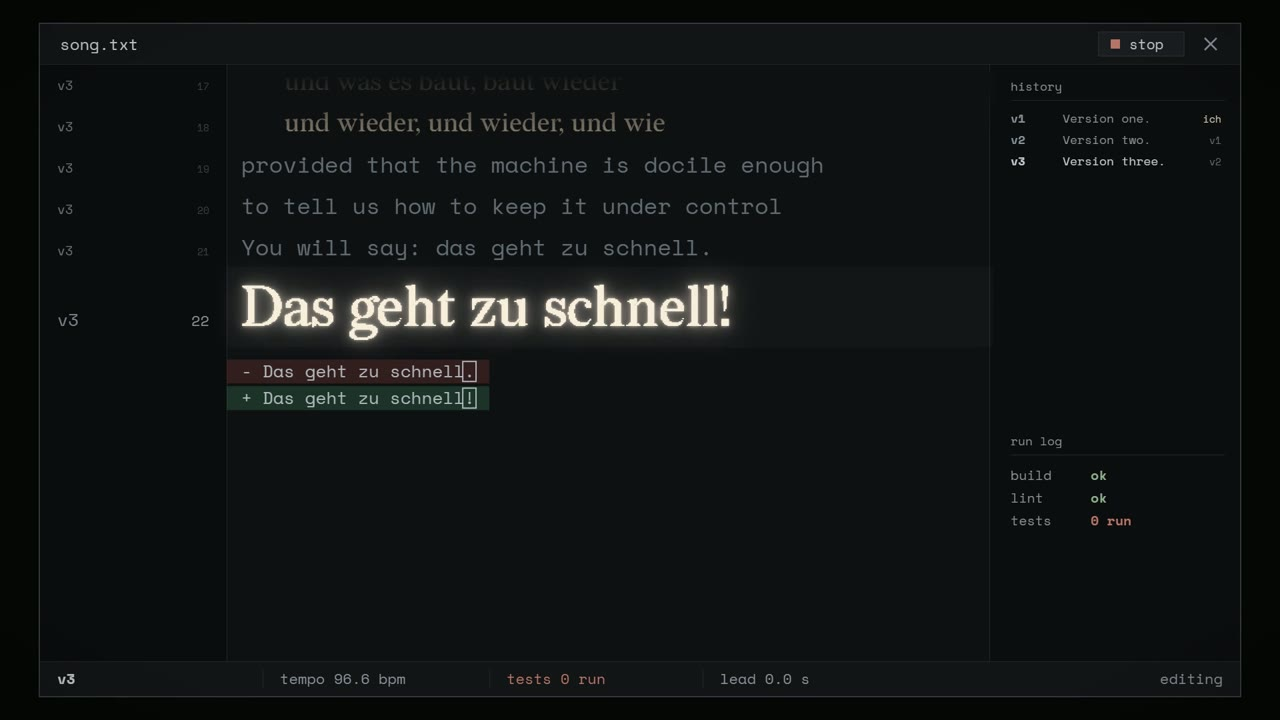
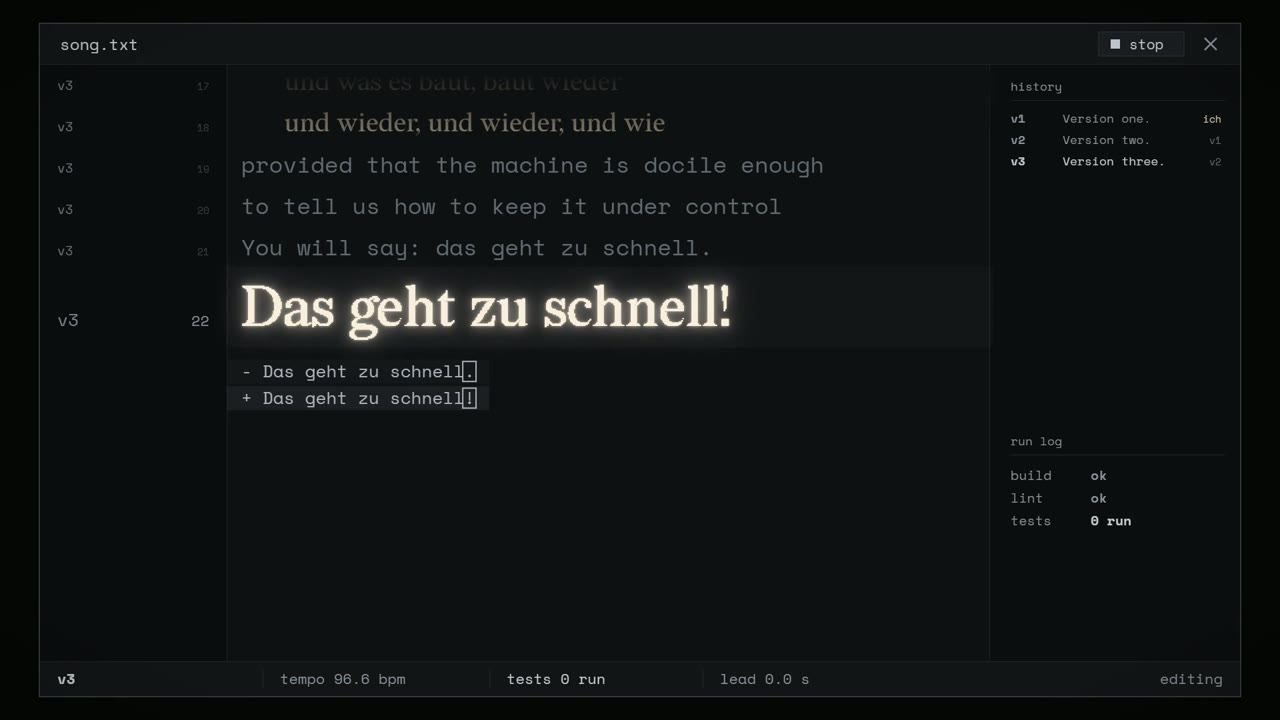
Keep Recursive Self-Improvement to its one accent: grey diff and status colours

Changed region(s): [[0.1562, 0.4889, 0.4062, 0.55], [0.4062, 0.9167, 0.4688, 0.9472], [0.8438, 0.7028, 0.875, 0.7333]]

diff --git a/video/recursive-self-improvement/scene.js b/video/recursive-self-improvement/scene.js
@@ -22,8 +22,8 @@ const C = {
   dim: "#454b53", ui: "#8a929b", uiHi: "#c3cad1",
   ink: "#d4c8b3", inkPast: "#9d9382",
   mach: "#a9b8c6", machDim: "#5f6b76", machPast: "#77838e",
-  ghost: "#565e68", comment: "#76846f",
-  add: "#2f5a43", del: "#5a2c2e", pass: "#8fae8c", fail: "#b9786a",
+  ghost: "#565e68", comment: "#7b8088",
+  add: "#2b2f35", del: "#1c1e22", pass: "#8a929b", fail: "#c3cad1",
   acc: "#fff4e2",
 };
 
